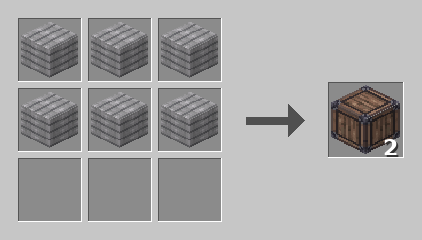
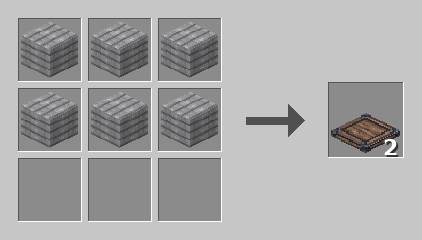
docs: render doors flat and trapdoors as thin slabs in generated images
Doors were iso-cubed in the site block gallery (the flat item sprite
warped onto a cube) and trapdoors rendered as full-height cubes in both
the gallery and recipe cards. Vanilla inventories show doors as their
flat item sprite and trapdoors as the bottom-state 3/16 slab; the
generators now match.

Changed region(s): [[0.7701, 0.35, 0.955, 0.6417]]

diff --git a/scripts/gen-recipe-images.py b/scripts/gen-recipe-images.py
@@ -167,13 +167,14 @@ def iso_stair(tex, W=30, Vh=30):
 
 def cell_display(tex, idv, size):
     """Rendered icon ready to paste in a slot of `size`px: iso cube for blocks
-    (slabs half-height, stairs two-tier), flat for items."""
+    (slabs half-height, trapdoors 3/16, stairs two-tier), flat for items."""
     if idv and is_block(idv):
         n = idv.split(":")[-1]
         if n.endswith("_stairs"):
             cube = iso_stair(tex)
         else:
-            cube = iso_cube(tex, frac=0.5 if n.endswith("_slab") else 1.0)
+            frac = 0.5 if n.endswith("_slab") else 0.1875 if n.endswith("_trapdoor") else 1.0
+            cube = iso_cube(tex, frac=frac)
         sc = min((size - 6) / cube.width, (size - 2) / cube.height)
         return cube.resize((max(1, int(cube.width*sc)), max(1, int(cube.height*sc))), Image.NEAREST)
     s = size - 12

diff --git a/scripts/gen-site.py b/scripts/gen-site.py
@@ -39,10 +39,16 @@ def tc(n):
 def render_block_icon(name):
     rel = "icons/b_%s.png" % name
     tex = gri.load_tex("oceanstarter:" + name)
+    if name.endswith("_door"):
+        # vanilla doors show their flat item sprite in inventories, never a cube
+        tex.resize((96, 96), Image.NEAREST).save(os.path.join(DOCS, rel))
+        return rel
     if name.endswith("_stairs"):
         img = gri.iso_stair(tex)
     elif name.endswith("_slab"):
         img = gri.iso_cube(tex, frac=0.5)
+    elif name.endswith("_trapdoor"):
+        img = gri.iso_cube(tex, frac=0.1875)
     else:
         img = gri.iso_cube(tex, frac=1.0)
     img = img.resize((img.width * 2, img.height * 2), Image.NEAREST)
